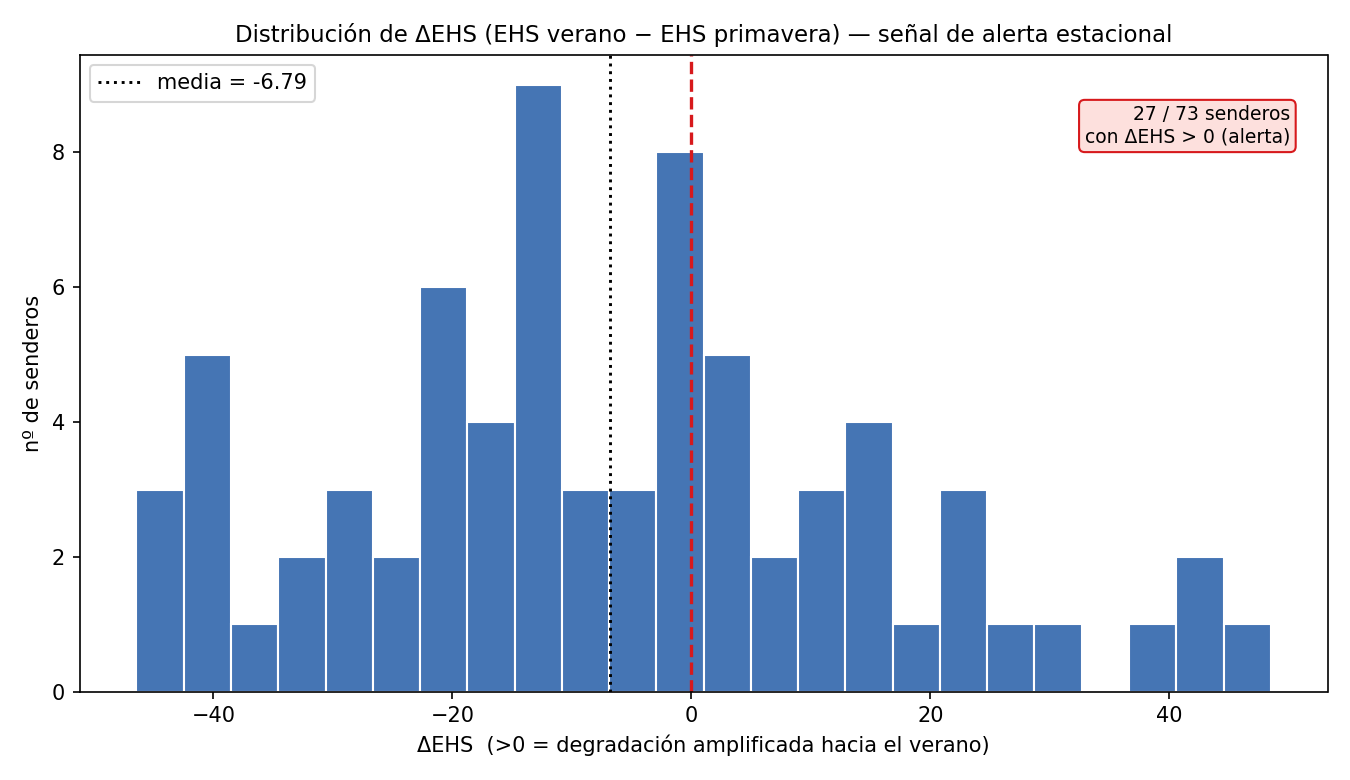
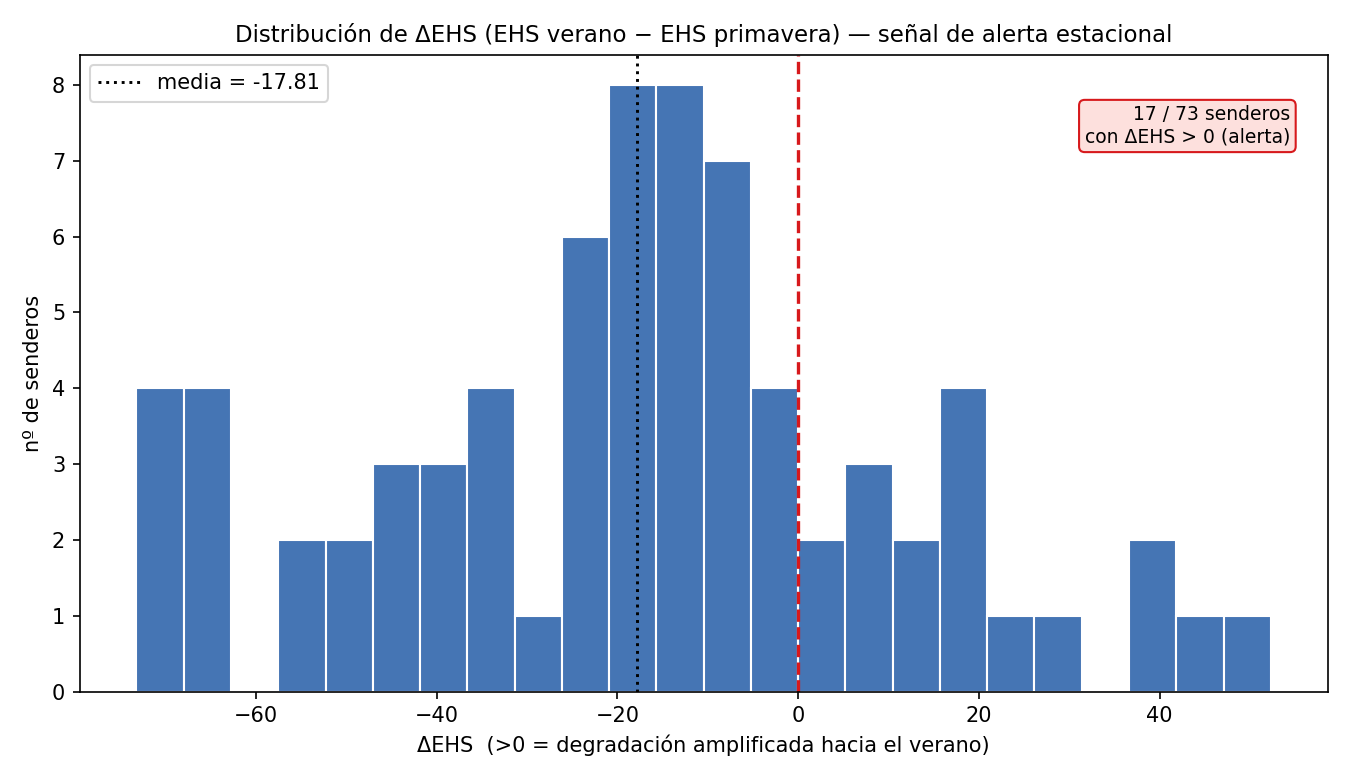
fix: real NDMI band + bi-index EHS figures for Sierra del Rincón
- prepare_raster.py: compute real NDMI from Sentinel-2 SWIR B11 (resampled
  to 10 m) instead of writing a zero placeholder in band 2; both seasonal
  rasters regenerated with valid NDVI+NDMI
- Re-run Pipeline A with bi-index EHS (NDVI+NDMI 0.5/0.5): EHS_summer mean
  27.6 (max 71.3), 17/73 trails degrading seasonally, SCM unchanged
  27/9/37 (NDVI-only by design — consistency check), budget ~205k EUR
- Refresh memoria 5.1 with bi-index figures; mark NDMI as resolved in 7.2
- Regenerate figures with corrected bi-index title

Note: ran with PROJ_LIB overridden to rasterio's proj_data because a
PostgreSQL 18 / PostGIS PROJ install on PATH shadows rasterio's proj.db.

diff --git a/prepare_raster.py b/prepare_raster.py
@@ -3,9 +3,10 @@ SNTO -- Sentinel-2 Raster Preparation (Production)
 ===================================================
 Pilot Territory: Sierra del Rincón Biosphere Reserve, Madrid, Spain
 
-Reads Band 4 (Red) and Band 8 (NIR) from a Sentinel-2 L2A .SAFE directory,
-reprojects both to EPSG:25830, computes NDVI, and writes a 2-band GeoTIFF
-(Band 1: NDVI, Band 2: NDMI placeholder) to data/clean_assets/.
+Reads Band 4 (Red, 10 m), Band 8 (NIR, 10 m) and Band 11 (SWIR, 20 m) from a
+Sentinel-2 L2A .SAFE directory, reprojects all three to EPSG:25830, resamples
+B11 to the 10 m reference grid, computes NDVI and NDMI, and writes a 2-band
+GeoTIFF (Band 1: NDVI, Band 2: NDMI) to data/clean_assets/.
 
 Usage
 -----
@@ -229,6 +230,21 @@ def _compute_ndvi(nir: np.ndarray, red: np.ndarray) -> np.ndarray:
     return ndvi.astype(np.float32)
 
 
+def _compute_ndmi(nir: np.ndarray, swir: np.ndarray) -> np.ndarray:
+    """
+    NDMI = (NIR - SWIR) / (NIR + SWIR + epsilon).
+
+    Normalised Difference Moisture Index using B08 (NIR, 10 m) and B11 (SWIR,
+    20 m resampled to 10 m). epsilon avoids division by zero; pixels where
+    either input is NODATA are preserved as NODATA.
+    """
+    nodata_mask = (nir == NODATA) | (swir == NODATA)
+    with np.errstate(invalid="ignore"):
+        ndmi = (nir - swir) / (nir + swir + EPSILON)
+    ndmi[nodata_mask] = NODATA
+    return ndmi.astype(np.float32)
+
+
 # ── Argument parsing ──────────────────────────────────────────────────────────
 
 def _parse_args() -> argparse.Namespace:
@@ -296,16 +312,19 @@ def main() -> None:
     print()
 
     # ── [2/6] Locate IMG_DATA and band files ─────────────────────────────────
-    print("  [2/6] Locating IMG_DATA and 10 m band files ...")
+    print("  [2/6] Locating IMG_DATA and band files ...")
     try:
         img_data_dir = _find_img_data(safe_dir)
-        print(f"    IMG_DATA : {img_data_dir}")
+        print(f"    IMG_DATA  : {img_data_dir}")
 
         b04_path = _find_band(img_data_dir, "_B04_10m.jp2")
-        print(f"    B04 (Red): {os.path.basename(b04_path)}")
+        print(f"    B04 (Red) : {os.path.basename(b04_path)}")
 
         b08_path = _find_band(img_data_dir, "_B08_10m.jp2")
-        print(f"    B08 (NIR): {os.path.basename(b08_path)}")
+        print(f"    B08 (NIR) : {os.path.basename(b08_path)}")
+
+        b11_path = _find_band(img_data_dir, "_B11_20m.jp2")
+        print(f"    B11 (SWIR): {os.path.basename(b11_path)}")
 
     except FileNotFoundError as exc:
         print(f"\n  ERROR: Band discovery failed.\n  {exc}")
@@ -324,6 +343,11 @@ def main() -> None:
         print(f"    B08 shape : {b08_data.shape}  "
               f"CRS: {b08_profile['crs']}  "
               f"dtype: {b08_data.dtype}")
+
+        b11_data, b11_profile = _read_band(b11_path)
+        print(f"    B11 shape : {b11_data.shape}  "
+              f"CRS: {b11_profile['crs']}  "
+              f"dtype: {b11_data.dtype}  (native 20 m)")
 
     except rasterio.errors.RasterioIOError as exc:
         print(f"\n  ERROR: Failed to read band file.\n  {exc}")
@@ -347,6 +371,13 @@ def main() -> None:
         b08_data, b08_profile = _reproject_to_epsg25830(b08_data, b08_profile)
         print(f"    B08 final shape : {b08_data.shape}")
 
+        if b11_profile["crs"] == TARGET_CRS:
+            print(f"    B11: already in EPSG:25830 — no reprojection needed.")
+        else:
+            print(f"    B11: {b11_profile['crs']} → EPSG:25830 ...")
+        b11_data, b11_profile = _reproject_to_epsg25830(b11_data, b11_profile)
+        print(f"    B11 final shape : {b11_data.shape}  (still 20 m grid)")
+
     except Exception as exc:
         print(f"\n  ERROR: Reprojection to EPSG:25830 failed.\n  {exc}")
         sys.exit(1)
@@ -364,12 +395,24 @@ def main() -> None:
             sys.exit(1)
     else:
         print("    Grid check  : B04 and B08 grids match — no alignment needed.")
+
+    # B11 is natively 20 m: resample to the 10 m B04 reference grid so NDMI
+    # aligns pixel-for-pixel with NDVI. Bilinear resampling (20 m → 10 m).
+    print()
+    print(f"    Resampling B11 (20 m) → B04 reference grid (10 m) ...")
+    try:
+        b11_data = _align_to_reference(b11_data, b11_profile, b04_profile)
+        print(f"    B11 resampled : {b11_data.shape}")
+    except Exception as exc:
+        print(f"\n  ERROR: Resampling of B11 to B04 grid failed.\n  {exc}")
+        sys.exit(1)
     print()
 
     # ── [5/6] Compute NDVI and NDMI ──────────────────────────────────────────
     print("  [5/6] Computing spectral indices ...")
     ndvi = _compute_ndvi(b08_data, b04_data)
-    del b04_data, b08_data  # free memory before writing
+    ndmi = _compute_ndmi(b08_data, b11_data)
+    del b04_data, b08_data, b11_data  # free memory before writing
 
     valid_ndvi = ndvi[ndvi != NODATA]
     print(f"    NDVI  — valid pixels : {len(valid_ndvi):>12,}")
@@ -378,9 +421,12 @@ def main() -> None:
               f"{valid_ndvi.max():.4f}]")
         print(f"            mean         :  {valid_ndvi.mean():.4f}")
 
-    # NDMI placeholder: full zero array on the same grid.
-    ndmi = np.zeros(ndvi.shape, dtype=np.float32)
-    print(f"    NDMI  — placeholder  : 0.0 (full grid, {ndmi.shape})")
+    valid_ndmi = ndmi[ndmi != NODATA]
+    print(f"    NDMI  — valid pixels : {len(valid_ndmi):>12,}")
+    if len(valid_ndmi):
+        print(f"            range        : [{valid_ndmi.min():.4f},  "
+              f"{valid_ndmi.max():.4f}]")
+        print(f"            mean         :  {valid_ndmi.mean():.4f}")
     print()
 
     # ── [6/6] Write 2-band GeoTIFF ───────────────────────────────────────────
@@ -406,7 +452,7 @@ def main() -> None:
             dst.write(ndmi,  2)
             dst.update_tags(
                 BAND_1="NDVI = (B08 - B04) / (B08 + B04 + 1e-8)",
-                BAND_2="NDMI = 0.0 (placeholder — replace with full SWIR calculation)",
+                BAND_2="NDMI = (B08 - B11) / (B08 + B11 + 1e-8)  [B11 resampled 20m->10m]",
                 SOURCE=os.path.basename(safe_dir),
                 CRS="EPSG:25830",
                 NODATA=str(NODATA),

diff --git a/make_pipeline_a_figures.py b/make_pipeline_a_figures.py
@@ -68,7 +68,7 @@ def main() -> None:
         ax.annotate(r["name"][:22], xy=(c.x, c.y), fontsize=7, color="black",
                     bbox=dict(boxstyle="round,pad=0.2", fc="white", ec="0.5", alpha=0.8))
     ax.set_title("Salud ambiental por sendero (EHS verano) — Reserva de la Biosfera Sierra del Rincón\n"
-                 "73 senderos · 149,4 km · Sentinel-2 (modo NDVI-only)", fontsize=11)
+                 "73 senderos · 149,4 km · Sentinel-2 (EHS bi-índice NDVI+NDMI)", fontsize=11)
     ax.set_xlabel("Easting (EPSG:25830, m)"); ax.set_ylabel("Northing (m)")
     ax.ticklabel_format(style="plain")
     fig.tight_layout()

diff --git a/docs/TFM_memoria_borrador.md b/docs/TFM_memoria_borrador.md
@@ -79,27 +79,27 @@ Esta separación es una decisión de diseño deliberada y constituye la principa
 
 ### 5.1 Pipeline A — Sierra del Rincón (datos reales)
 
-Se analizaron **73 senderos** (longitud total **149,4 km**) dentro de la Reserva de la Biosfera Sierra del Rincón, derivados de OpenStreetMap (vías con `highway = path | footway | track | bridleway` y etiqueta de nombre, disueltas por nombre) y evaluados sobre dos escenas Sentinel-2 L2A reales (verano: agosto 2025; primavera: abril 2026). El cómputo se ejecutó en modo fichero (`run_pipeline_a_filemode.py`), reutilizando la misma matemática de `calculate_delta_ehs.py` y `run_scm_operational.py` sin dependencia de PostGIS.
+Se analizaron **73 senderos** (longitud total **149,4 km**) dentro de la Reserva de la Biosfera Sierra del Rincón, derivados de OpenStreetMap (vías con `highway = path | footway | track | bridleway` y etiqueta de nombre, disueltas por nombre) y evaluados sobre dos escenas Sentinel-2 L2A reales (verano: agosto 2025; primavera: abril 2026). El cómputo se ejecutó en modo fichero (`run_pipeline_a_filemode.py`), reutilizando la misma matemática de `calculate_delta_ehs.py` y `run_scm_operational.py` sin dependencia de PostGIS, con **EHS bi-índice (NDVI + NDMI a peso 0,5/0,5)**.
 
-**Salud ambiental (EHS, escala 0–100; alto = peor estado).** EHS de verano: media **21,6**, máximo **63,1**, mínimo 0,0. Los valores son moderados-bajos en promedio, consistentes con una masa vegetal mayoritariamente sana en el conjunto del territorio, con focos puntuales de estrés.
+**Salud ambiental (EHS, escala 0–100; alto = peor estado).** EHS de verano: media **27,6**, máximo **71,3**, mínimo 0,0. Los valores son moderados en promedio, consistentes con una masa vegetal mayoritariamente sana en el conjunto del territorio, con focos puntuales de estrés acusado.
 
-**Señal de alerta estacional (ΔEHS = EHS_verano − EHS_primavera).** Media territorial **−6,79** (recuperación estacional neta), pero **27 de 73 senderos (37 %) presentan ΔEHS > 0**, es decir, degradación amplificada hacia el verano — la señal de alerta temprana que el sistema busca. Los 5 senderos con mayor degradación estacional, todos clasificados como `LOCALIZED_IMPACT`, son:
+**Señal de alerta estacional (ΔEHS = EHS_verano − EHS_primavera).** Media territorial **−17,8** (recuperación estacional neta), pero **17 de 73 senderos (23 %) presentan ΔEHS > 0**, es decir, degradación amplificada hacia el verano — la señal de alerta temprana que el sistema busca. Los 5 senderos con mayor degradación estacional son:
 
 | Sendero | ΔEHS | EHS_verano | Clasificación SCM |
 |---|---|---|---|
-| Calle Plazuela | +48,5 | 51,4 | LOCALIZED_IMPACT |
-| Calle Chorrera | +42,3 | 50,5 | LOCALIZED_IMPACT |
-| Camino de Rosuero a Riofrío de Riaza | +41,5 | 50,3 | LOCALIZED_IMPACT |
-| Camino Rades | +38,2 | 38,2 | LOCALIZED_IMPACT |
-| Cañada Real Segoviana | +31,5 | 51,6 | LOCALIZED_IMPACT |
+| Calle Plazuela | +52,3 | 62,2 | LOCALIZED_IMPACT |
+| Camino Rades | +42,9 | 53,9 | LOCALIZED_IMPACT |
+| Camino de Rosuero a Riofrío de Riaza | +40,9 | 64,4 | LOCALIZED_IMPACT |
+| Calle Chorrera | +40,9 | 64,1 | LOCALIZED_IMPACT |
+| Camino de la Tayuela | +27,0 | 45,8 | MIXED |
 
-**Atribución causal (SCM).** De los 73 senderos: **27 LOCALIZED_IMPACT** (impacto antrópico dominante, factor causal 1,0), **9 MIXED** (0,5) y **37 LANDSCAPE_DRIVEN** (forzamiento climático, 0,0); 0 sin dato. Que los 5 senderos más degradados sean simultáneamente `LOCALIZED_IMPACT` es coherente con la hipótesis del sistema: la degradación más severa se concentra donde el gradiente espacial delata presión de uso, no clima.
+**Atribución causal (SCM).** De los 73 senderos: **27 LOCALIZED_IMPACT** (impacto antrópico dominante, factor causal 1,0), **9 MIXED** (0,5) y **37 LANDSCAPE_DRIVEN** (forzamiento climático, 0,0); 0 sin dato. Que **4 de los 5 senderos más degradados** sean `LOCALIZED_IMPACT` es coherente con la hipótesis del sistema: la degradación más severa se concentra donde el gradiente espacial delata presión de uso, no clima. (El SCM usa solo NDVI por diseño, por lo que su clasificación es idéntica con o sin NDMI — una útil prueba de consistencia.)
 
-**Presupuesto de restauración (indicativo).** Aplicando `B = longitud × 15,50 €/m × (EHS_verano/100) × factor_causal`, el presupuesto total imputable a presión turística asciende a **≈ 157.194 €**. Es una estimación de orden de magnitud (ver limitaciones §7.2).
+**Presupuesto de restauración (indicativo).** Aplicando `B = longitud × 15,50 €/m × (EHS_verano/100) × factor_causal`, el presupuesto total imputable a presión turística asciende a **≈ 205.296 €**. Es una estimación de orden de magnitud (ver limitaciones §7.2).
 
 > **Provenance y caveats (honestidad metodológica):**
 > 1. **Conjunto de senderos.** Procede de OSM, no del conjunto curado original de 20 activos; es plenamente reproducible desde fuentes abiertas, pero el inventario difiere.
-> 2. **EHS calculado en modo NDVI-only.** Los rásters disponibles en `data/clean_assets/` tienen la **banda NDMI (banda 2) degenerada (todo ceros)**; el EHS se computó por tanto solo con NDVI a peso completo. Para el EHS bi-índice de diseño debe regenerarse el NDMI desde la banda SWIR (B11) de los productos SAFE (presentes en `data/raw_assets/raster_data/`).
+> 2. **EHS bi-índice.** Los rásters se regeneraron desde los productos SAFE para escribir un NDMI real desde la banda SWIR (B11) — corrigiendo un *placeholder* a ceros en la versión previa; el EHS de §5.1 combina NDVI y NDMI al 50/50 como en el diseño.
 > 3. **Presupuesto sin índice de tráfico.** En modo fichero no hay `traffic_index`; el `priority_score` se aproximó por el EHS_verano. El coste unitario TRAGSA (15,50 €/m) es estimación de orden de magnitud pendiente de cita oficial.
 > 4. **ΔEHS inter-anual.** Las dos escenas pertenecen a años distintos (verano 2025 / primavera 2026); el contraste es estacional, no una serie temporal — coherente con §4.3.
 
@@ -148,7 +148,7 @@ El SNTO *es*, en sí mismo, el sistema de monitorización objetiva y de cuantifi
 ### 7.2 Limitaciones
 De forma explícita y deliberada:
 - **Profundidad temporal del Pipeline A:** una sola anualidad real; la serie multi-anual (GEE 2021–2025) es trabajo en curso (ver `docs/GEE_setup_timebox.md`). El método de tendencia está implementado; lo que se acota es sobre qué territorio se afirma un hallazgo frente a una capacidad.
-- **Banda NDMI no operativa en los rásters actuales:** la banda 2 de los GeoTIFFs estacionales está a cero, por lo que el EHS de los resultados de §5.1 se calculó en modo NDVI-only. La regeneración del NDMI desde la banda SWIR de los productos SAFE restauraría el EHS bi-índice de diseño y es requisito antes de fijar las cifras como definitivas.
+- **Banda NDMI (resuelto durante el desarrollo):** la versión inicial de los rásters tenía la banda NDMI a cero (un *placeholder* en `prepare_raster.py`); se corrigió el script para computar NDMI desde la banda SWIR B11 y se regeneraron ambas escenas, de modo que las cifras de §5.1 ya son bi-índice. Se documenta como trazabilidad del proceso, no como limitación pendiente.
 - **Dimensión socioeconómica:** el sistema es fuerte en lo ambiental y débil en indicadores socioeconómicos (empleo, gasto turístico, satisfacción residente); se propone la integración de datos MITMA y encuestas como desarrollo.
 - **Principios programáticos de la CETS (4, 6, 7):** satisfacción del visitante, productos turísticos y formación quedan fuera del alcance de un sistema técnico, por ser acciones humanas y organizativas.
 - **Costes unitarios de restauración:** calibrados con tarifas TRAGSA 2023; deben tratarse como estimación de orden de magnitud hasta cerrar la cita de la resolución oficial por partida.